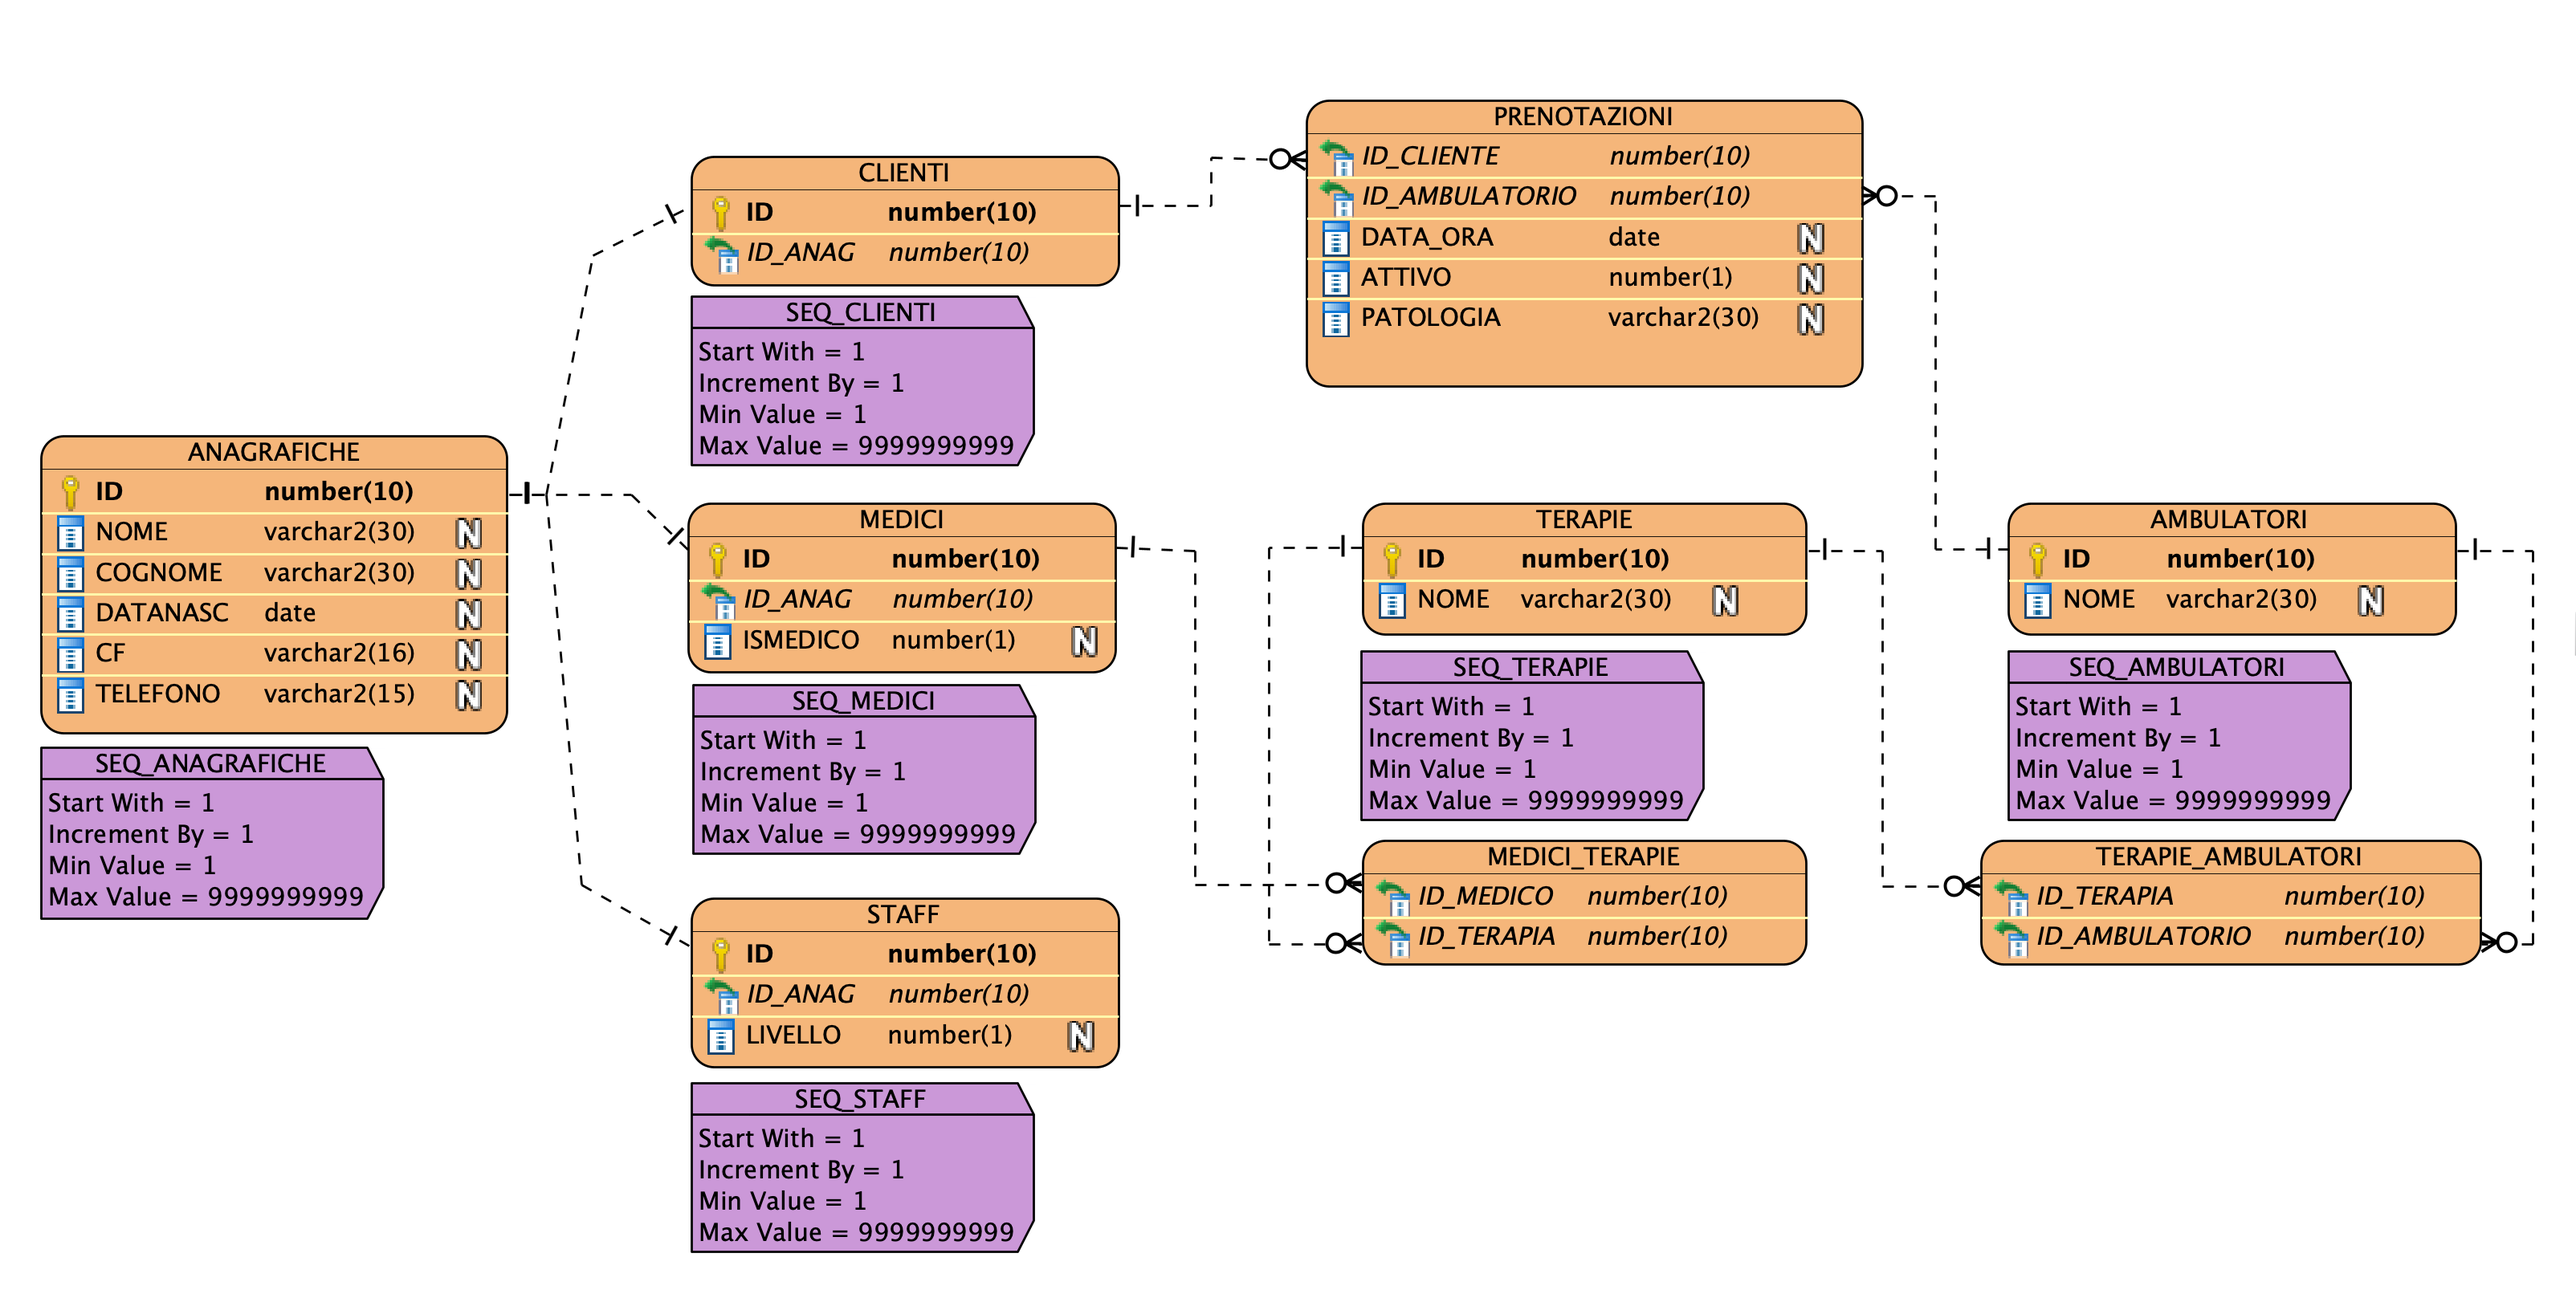
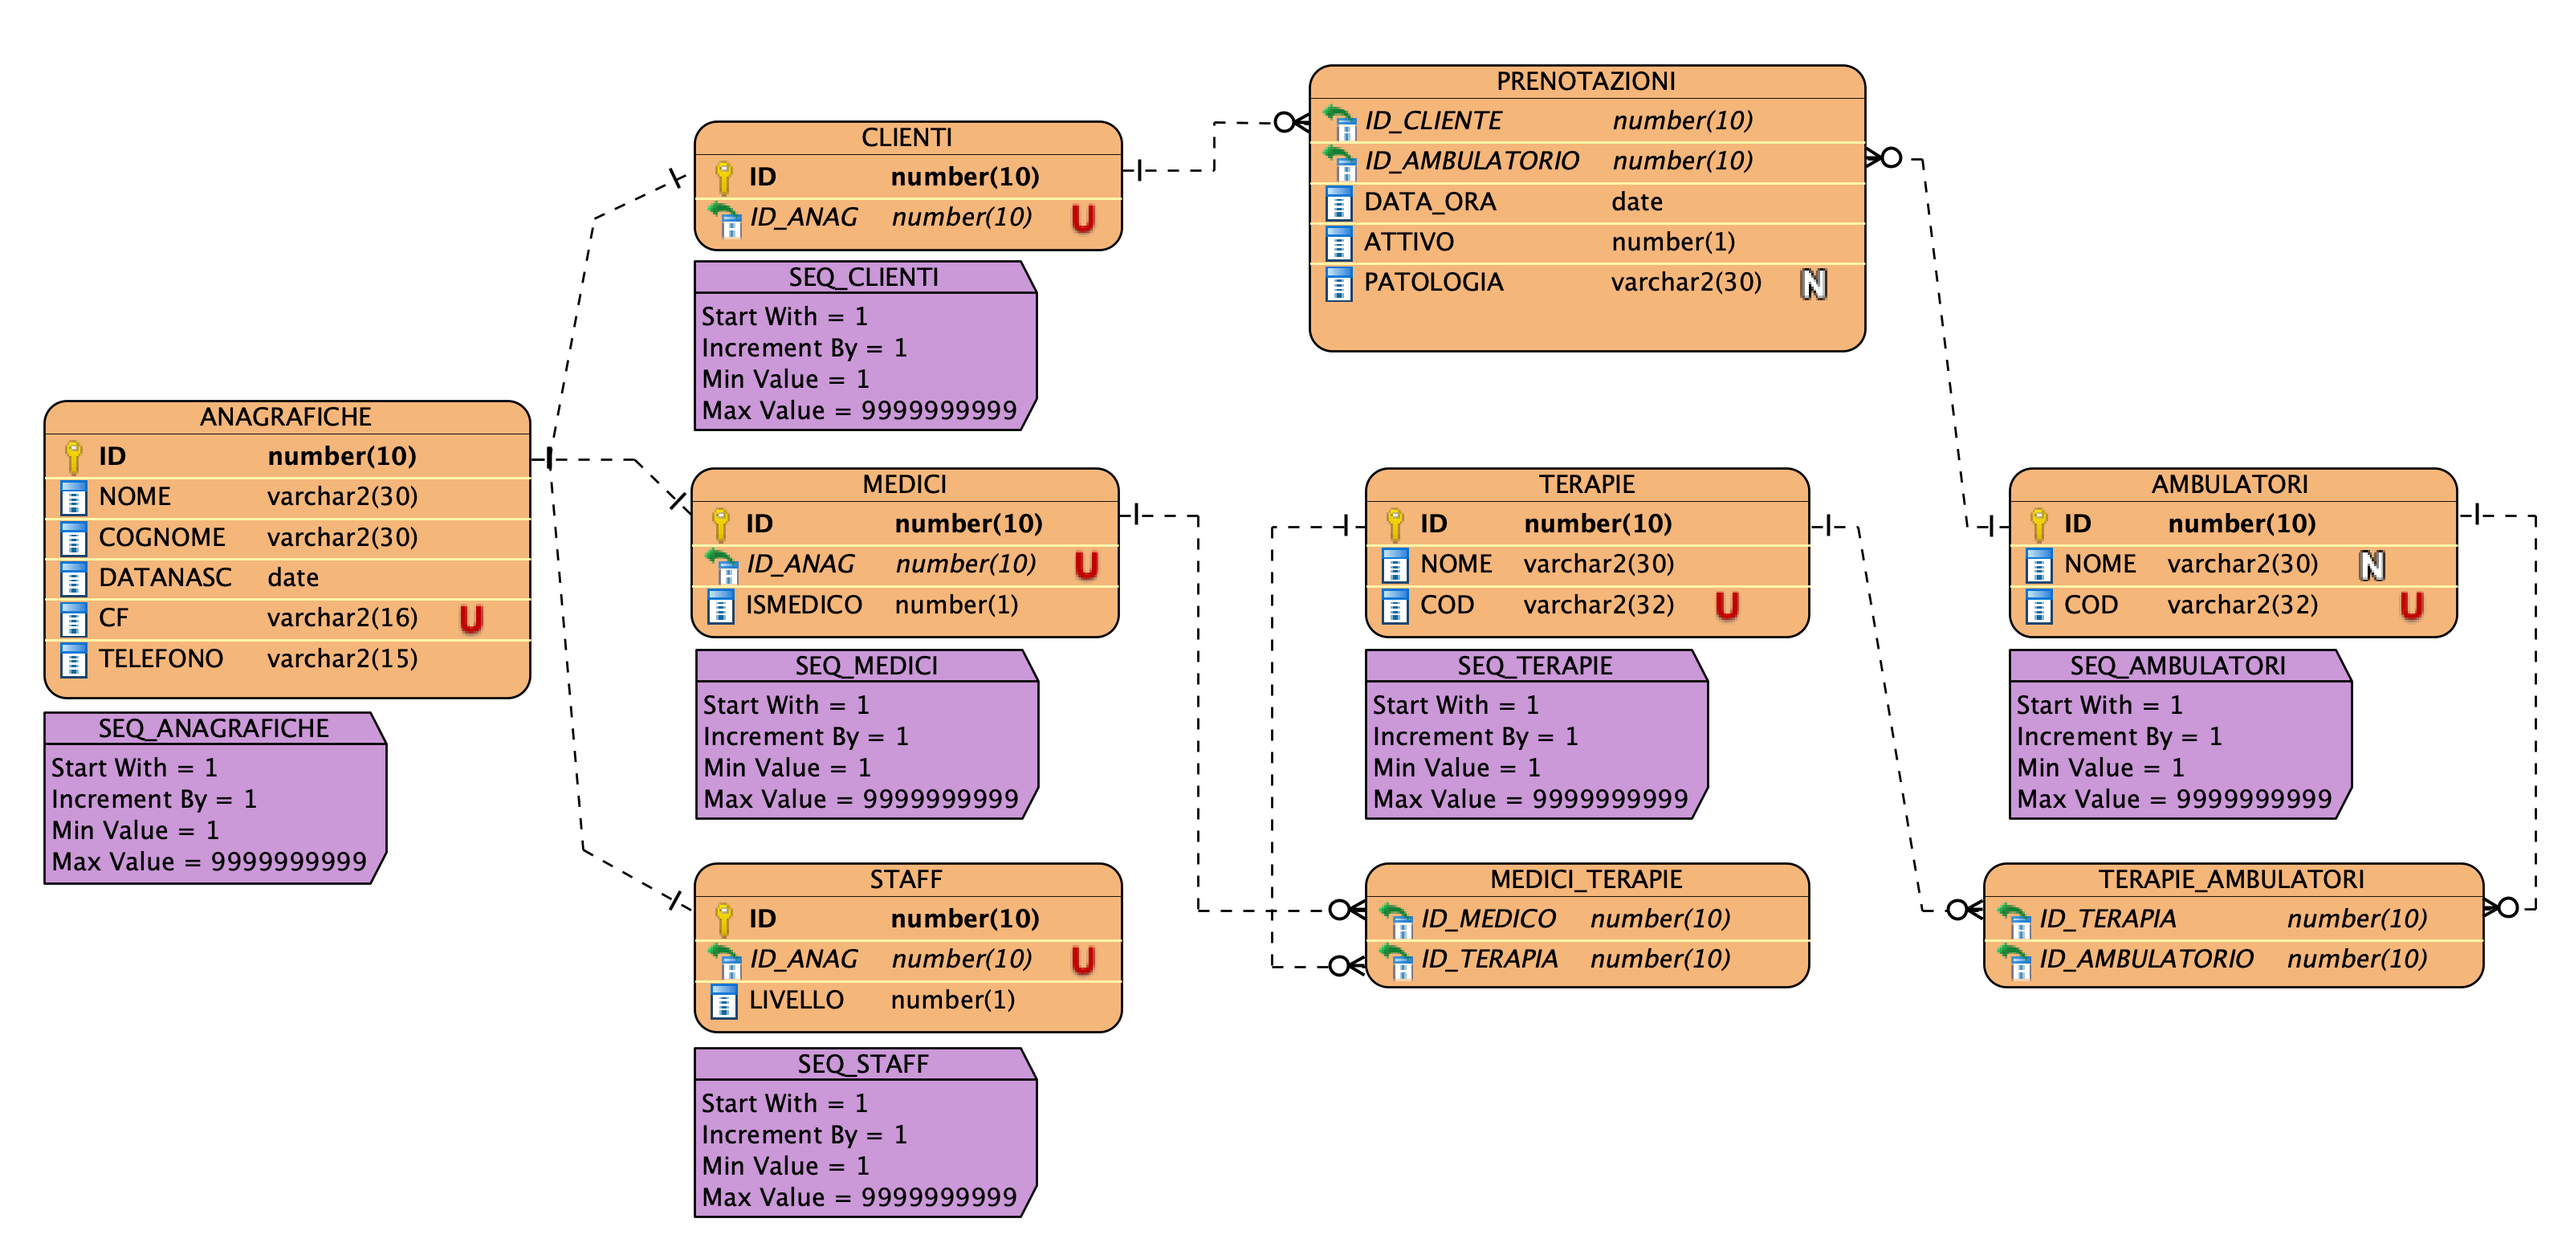
updated UML

diff --git a/README.md b/README.md
@@ -2,7 +2,7 @@
 
 # Gestionale per istituto di Fisioterapia:
 
-![alt text](https://github.com/ftruono/IST_modis/blob/master/UML/IST_UML.png)
+![alt text](https://github.com/ftruono/IST_modis/blob/master/UML/IST_UML_noseq.png)
 
 ### Le funzionalità da implementare sono:
 - **Anagrafiche** di tutti i tipi di utenti esclusi i gestori.
